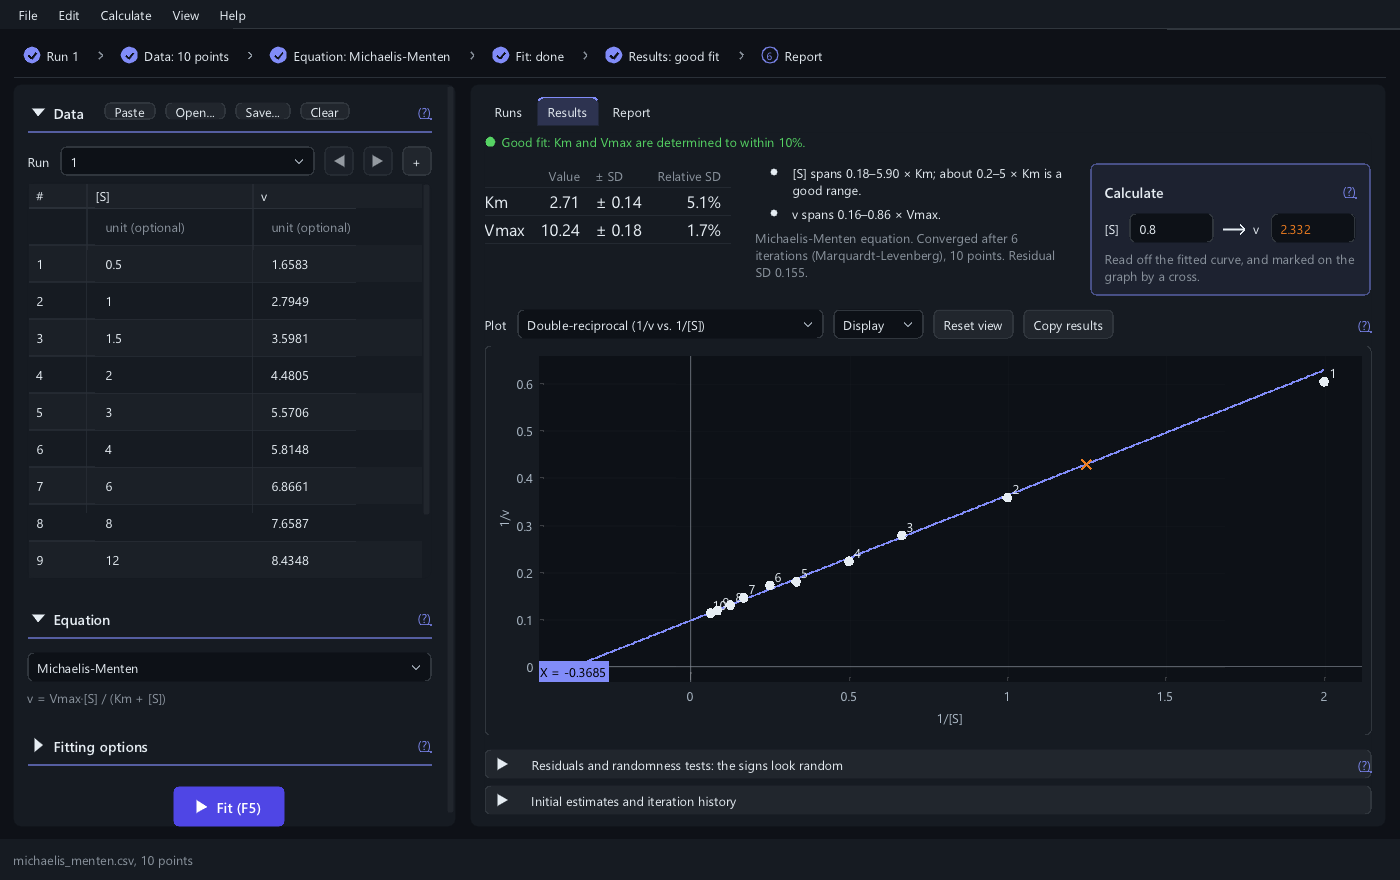
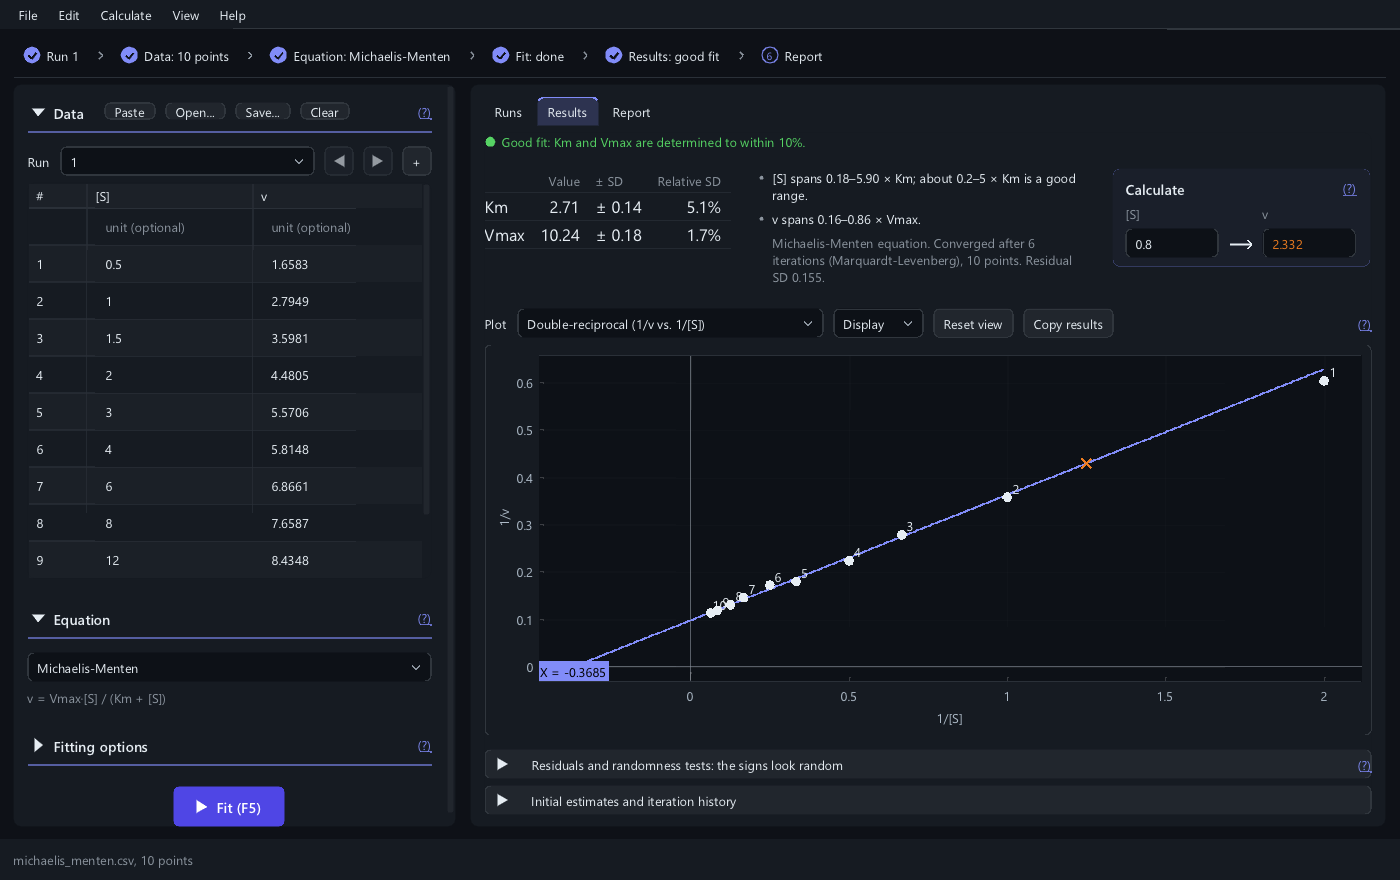
Tidy the results summary and the Calculate box
- One gap between the verdict, the table, the notes, the Calculate box
  and the plot controls.
- The notes' bullets are small and quiet, in the verdict's dot column,
  with their text (and the fit's summary line) in the verdict's text
  column.
- Calculate box: labels over two equal fields, the arrow centred between
  them; a fainter tint, a lighter border and tighter padding. The line
  under the fields appears only for a warning (extrapolated, out of the
  curve's reach, not a number).
- When the box does not fit beside the notes, it goes under them.
- README screenshots retaken.

diff --git a/source/remake/app/ui_results.cpp b/source/remake/app/ui_results.cpp
@@ -479,7 +479,7 @@ void App::draw_results_tab() {
         ImGui::EndGroup();
     } else {
         draw_results_summary(a, avail.x >= fs * 40.0f);
-        ImGui::Spacing();
+        ImGui::Dummy(ImVec2(0.0f, fs * 0.6f));  // the summary's gap between groups
         if (std::exchange(scrollToPlot_, false)) ImGui::SetScrollHereY(0.0f);
         draw_plot_controls();
         const float w = ImGui::GetContentRegionAvail().x;
@@ -495,9 +495,11 @@ void App::draw_results_tab() {
 void App::draw_results_summary(const kin::Analysis& a, bool twoColumns) {
     // The verdict first, then the numbers, then how the fit went: beside the
     // numbers when there is room, which leaves more height for the graph.
-    for (const auto& v : fit_verdict(a)) draw_verdict(v);
-    ImGui::Spacing();
+    // The groups are set apart by the same gap throughout.
     const float fs = ImGui::GetFontSize();
+    const float vgap = fs * 0.6f;
+    for (const auto& v : fit_verdict(a)) draw_verdict(v);
+    ImGui::Dummy(ImVec2(0.0f, vgap * 0.5f));
     const float gap = fs * 1.5f;
     const float boxW = prediction_box_width(a);  // the Calculate box
     if (twoColumns) {
@@ -506,44 +508,53 @@ void App::draw_results_summary(const kin::Analysis& a, bool twoColumns) {
         ImGui::EndGroup();
         ImGui::SameLine(0.0f, gap);
         // The notes, and the Calculate box beside them when there is room
-        // for both; otherwise the box goes below.
+        // for both; otherwise under them, in their column.
         const float notesW = ImGui::GetContentRegionAvail().x;
         const bool boxBeside = notesW >= fs * 14.0f + gap + boxW;
         ImGui::BeginGroup();
         ImGui::PushTextWrapPos(ImGui::GetCursorPosX() + (boxBeside ? notesW - gap - boxW : notesW));
         draw_result_notes(a);
         ImGui::PopTextWrapPos();
+        if (!boxBeside) {
+            ImGui::Dummy(ImVec2(0.0f, vgap));
+            draw_prediction_box(a, std::min(boxW, notesW));
+        }
         ImGui::EndGroup();
         if (boxBeside) {
             same_line_right(boxW);
             draw_prediction_box(a, boxW);
-        } else {
-            ImGui::Spacing();
-            draw_prediction_box(a, std::min(boxW, ImGui::GetContentRegionAvail().x));
         }
         return;
     }
     draw_parameter_values(a);
-    ImGui::Spacing();
+    ImGui::Dummy(ImVec2(0.0f, vgap));
     draw_result_notes(a);
-    ImGui::Spacing();
+    ImGui::Dummy(ImVec2(0.0f, vgap));
     draw_prediction_box(a, std::min(boxW, ImGui::GetContentRegionAvail().x));
 }
 
 void App::draw_result_notes(const kin::Analysis& a) {
-    for (const auto& line : plain_interpretation(a)) {
-        if (line.warn) ImGui::PushStyleColor(ImGuiCol_Text, palette().warning);
-        ImGui::Bullet();
-        ImGui::TextWrapped("%s", line.text.c_str());
-        if (line.warn) ImGui::PopStyleColor();
-    }
+    // Each note with a small, quiet bullet in the verdict's dot column, and
+    // its text in the verdict's text column.
+    const float fs = ImGui::GetFontSize();
+    bool bullets = false;
+    auto note = [&](const std::string& text, bool warn) {
+        bullets = true;
+        const ImVec2 p = ImGui::GetCursorScreenPos();
+        ImGui::GetWindowDrawList()->AddCircleFilled(ImVec2(p.x + fs * 0.35f, p.y + ImGui::GetTextLineHeight() * 0.55f),
+                                                    fs * 0.12f, ImGui::GetColorU32(palette().textDim));
+        ImGui::Indent(fs);
+        ImGui::PushStyleColor(ImGuiCol_Text, warn ? palette().warning : palette().text);
+        ImGui::TextWrapped("%s", text.c_str());
+        ImGui::PopStyleColor();
+        ImGui::Unindent(fs);
+    };
+    for (const auto& line : plain_interpretation(a)) note(line.text, line.warn);
     // The notes the verdict above does not already cover (e.g. how a fixed
     // v0 was set); the report lists them all.
-    for (const auto& note : a.notes) {
-        if (note == a.fit.message || note.rfind("Only ", 0) == 0 || note.rfind("Some standard deviations", 0) == 0)
-            continue;
-        ImGui::Bullet();
-        ImGui::TextWrapped("%s", note.c_str());
+    for (const auto& n : a.notes) {
+        if (n == a.fit.message || n.rfind("Only ", 0) == 0 || n.rfind("Some standard deviations", 0) == 0) continue;
+        note(n, false);
     }
     {
         const std::string sd = kin::fmt_g(a.fit.stdDev, 3);
@@ -561,9 +572,13 @@ void App::draw_result_notes(const kin::Analysis& a) {
             std::snprintf(buf, sizeof buf, "%s. %s %d iteration%s (%s), %d points. Residual SD %s%s.", label.c_str(),
                           a.fit.status == kin::FitStatus::Converged ? "Converged after" : "Stopped after", it,
                           it == 1 ? "" : "s", method, a.fit.n, sd.c_str(), unit.c_str());
+        // In the notes' text column, or at the left when there are none.
+        const float indent = bullets ? fs : 0.0f;
+        if (bullets) ImGui::Indent(indent);
         ImGui::PushStyleColor(ImGuiCol_Text, palette().textDim);
         ImGui::TextWrapped("%s", buf);
         ImGui::PopStyleColor();
+        if (bullets) ImGui::Unindent(indent);
         const int df = a.linear ? a.linear->df : a.fit.dof;
         item_tooltip("The residual SD is the typical distance of a point from the fitted curve (" +
                      kin::fmt_g(a.fit.stdDev) + "). " + std::to_string(a.fit.nFree) + " free parameter" +
@@ -790,61 +805,65 @@ std::optional<std::pair<double, double>> App::calculated_point(const kin::Analys
     return std::pair{*x, v};
 }
 
-// The Calculate box's one row, "[S] [  ]  ->  v [  ]": its labels and sizes,
-// for both the box's width and its drawing.
-struct CalcRow {
+// The Calculate box's layout: two equal columns, each a label over a field,
+// with the arrow between them.
+struct CalcLayout {
     std::string xLabel, yLabel;
-    float labels = 0.0f;  // both labels, with the space after each
-    float arrow = 0.0f;   // the arrow between the fields, with its margins
-    float field = 0.0f;   // each field, at its full width
-    float width() const { return labels + arrow + 2.0f * field; }
+    float column = 0.0f;  // each column, at its full width
+    float arrow = 0.0f;   // the arrow between the columns, with its margins
+    float width() const { return 2.0f * column + arrow; }
 };
 
-static CalcRow calc_row(const kin::Analysis& a, const std::string& xUnit, const std::string& yUnit) {
+static CalcLayout calc_layout(const kin::Analysis& a, const std::string& xUnit, const std::string& yUnit) {
     const auto& def = kin::model_def(a.model());
     const bool arrhenius = def.family == kin::Family::Arrhenius;
     auto label = [&](std::string_view name, const std::string& unit) {
         return std::string(name) + (unit.empty() || arrhenius ? std::string() : " (" + unit + ")");
     };
-    const float fs = ImGui::GetFontSize(), sp = ImGui::GetStyle().ItemSpacing.x;
-    CalcRow r;
-    r.xLabel = label(def.xName, xUnit);
-    r.yLabel = label(def.yName, yUnit);
-    r.labels = ImGui::CalcTextSize(r.xLabel.c_str()).x + ImGui::CalcTextSize(r.yLabel.c_str()).x + 2.0f * sp;
-    r.arrow = fs * 2.4f;
-    r.field = fs * 5.0f;
-    return r;
+    const float fs = ImGui::GetFontSize();
+    CalcLayout l;
+    l.xLabel = label(def.xName, xUnit);
+    l.yLabel = label(def.yName, yUnit);
+    l.column = std::max({fs * 5.5f, ImGui::CalcTextSize(l.xLabel.c_str()).x, ImGui::CalcTextSize(l.yLabel.c_str()).x});
+    l.arrow = fs * 2.6f;
+    return l;
+}
+
+// The box's padding, a little tighter than a window's.
+static ImVec2 calc_padding() {
+    const float fs = ImGui::GetFontSize();
+    return ImVec2(fs * 0.8f, fs * 0.6f);
 }
 
 float App::prediction_box_width(const kin::Analysis& a) const {
     const float fs = ImGui::GetFontSize();
-    return std::max(calc_row(a, xUnit_, yUnit_).width(), fs * 12.0f) + 2.0f * ImGui::GetStyle().WindowPadding.x;
+    return std::max(calc_layout(a, xUnit_, yUnit_).width(), fs * 11.0f) + 2.0f * calc_padding().x;
 }
 
 void App::draw_prediction_box(const kin::Analysis& a, float width) {
     const auto& def = kin::model_def(a.model());
     const std::string xName(def.xName), yName(def.yName);
     const float fs = ImGui::GetFontSize();
-    const CalcRow row = calc_row(a, xUnit_, yUnit_);
+    const CalcLayout layout = calc_layout(a, xUnit_, yUnit_);
     const auto pt = calculated_point(a);
     double typedValue = 0.0;
     const CellState state = parse_cell(calcInput_, typedValue);
 
-    // A lightly tinted, rounded box, so that it reads as a tool of its own.
+    // A quiet box: a faint tint of the accent and a light border.
     const ImVec4 tint = palette().accent;
-    ImGui::PushStyleColor(ImGuiCol_ChildBg, ImVec4(tint.x, tint.y, tint.z, 0.07f));
-    ImGui::PushStyleColor(ImGuiCol_Border, ImVec4(tint.x, tint.y, tint.z, 0.45f));
-    ImGui::PushStyleVar(ImGuiStyleVar_ChildRounding, fs * 0.35f);
+    ImGui::PushStyleColor(ImGuiCol_ChildBg, ImVec4(tint.x, tint.y, tint.z, 0.045f));
+    ImGui::PushStyleColor(ImGuiCol_Border, ImVec4(tint.x, tint.y, tint.z, 0.28f));
+    ImGui::PushStyleVar(ImGuiStyleVar_ChildRounding, fs * 0.4f);
     ImGui::PushStyleVar(ImGuiStyleVar_ChildBorderSize, 1.0f);
+    ImGui::PushStyleVar(ImGuiStyleVar_WindowPadding, calc_padding());
     const bool visible = ImGui::BeginChild("##predict", ImVec2(width, 0.0f),
                                            ImGuiChildFlags_Borders | ImGuiChildFlags_AutoResizeY |
                                                ImGuiChildFlags_AlwaysUseWindowPadding,
                                            ImGuiWindowFlags_NoScrollbar);
-    ImGui::PopStyleVar(2);
+    ImGui::PopStyleVar(3);
     ImGui::PopStyleColor(2);
     if (visible) {
         push_heading_font();
-        ImGui::AlignTextToFramePadding();
         ImGui::TextUnformatted("Calculate");
         ImGui::PopFont();
         help_link(HelpId::StandardCurve);
@@ -853,10 +872,18 @@ void App::draw_prediction_box(const kin::Analysis& a, float width) {
         // other shows the value read off the fitted curve, in the colour of
         // the cross that marks the point on the graph. The arrow points from
         // the value typed to the one calculated.
-        const float field = std::clamp((ImGui::GetContentRegionAvail().x - row.labels - row.arrow) / 2.0f, fs * 3.0f,
-                                       row.field);
+        const float column = std::max(fs * 3.0f, (ImGui::GetContentRegionAvail().x - layout.arrow) / 2.0f);
+        const float x0 = ImGui::GetCursorPosX();
+        const float x1 = x0 + column + layout.arrow;  // the second column
+
+        // The labels, quiet like the table's headings.
+        ImGui::PushStyleColor(ImGuiCol_Text, palette().textDim);
+        ImGui::TextUnformatted(layout.xLabel.c_str());
+        ImGui::SameLine(x1);
+        ImGui::TextUnformatted(layout.yLabel.c_str());
+        ImGui::PopStyleColor();
+
         auto draw_field = [&](bool isX) {
-            const std::string& label = isX ? row.xLabel : row.yLabel;
             const std::string& name = isX ? xName : yName;
             const std::string& other = isX ? yName : xName;
             const bool typed = !calcInput_.empty() && calcInputIsX_ == isX;
@@ -864,18 +891,17 @@ void App::draw_prediction_box(const kin::Analysis& a, float width) {
             const double value = answer ? (isX ? pt->first : pt->second) : NAN;
             std::string text = typed ? calcInput_ : answer ? kin::fmt_g(value, 4) : std::string();
             ImGui::PushID(isX ? "x" : "y");
-            ImGui::AlignTextToFramePadding();
-            ImGui::TextUnformatted(label.c_str());
-            ImGui::SameLine();
             if (std::exchange(isX ? focusCalcX_ : focusCalcY_, false)) ImGui::SetKeyboardFocusHere();
-            ImGui::SetNextItemWidth(field);
+            ImGui::SetNextItemWidth(column);
             if (answer) ImGui::PushStyleColor(ImGuiCol_Text, prediction_colour());
             if (ImGui::InputText("##value", &text, ImGuiInputTextFlags_CharsScientific)) {
                 calcInput_ = text;
                 calcInputIsX_ = isX;
             }
             if (answer) ImGui::PopStyleColor();
-            item_tooltip((answer ? name + " = " + kin::fmt_g(value, 10) + ", read off the fitted curve. " : std::string()) +
+            item_tooltip((answer ? name + " = " + kin::fmt_g(value, 10) + ", read off the fitted curve and marked on "
+                                                                         "the graph by a cross. "
+                                 : std::string()) +
                          "Type " + name + " here to read " + other + " off the curve (" + (isX ? "Alt+Y" : "Alt+X") +
                          "). The data's " + name + " runs from " + kin::fmt_g(isX ? a.xMin : a.yMin) + " to " +
                          kin::fmt_g(isX ? a.xMax : a.yMax) + ".");
@@ -889,20 +915,22 @@ void App::draw_prediction_box(const kin::Analysis& a, float width) {
             const ImVec2 p = ImGui::GetCursorScreenPos();
             const float h = ImGui::GetFrameHeight();
             const float cy = std::round(p.y + h * 0.5f) + 0.5f;
-            const float x0 = p.x + fs * 0.55f, x1 = p.x + row.arrow - fs * 0.55f, head = fs * 0.3f;
+            const float half = fs * 0.65f, head = fs * 0.28f;
+            const float mid = p.x + layout.arrow * 0.5f;
+            const float a0 = mid - half, a1 = mid + half;
             const ImU32 ink = ImGui::GetColorU32(dir == 0 ? palette().textDim : palette().text);
-            const float thick = std::max(1.0f, fs * 0.09f);
+            const float thick = std::max(1.0f, fs * 0.08f);
             ImDrawList* dl = ImGui::GetWindowDrawList();
-            dl->AddLine(ImVec2(x0, cy), ImVec2(x1, cy), ink, thick);
+            dl->AddLine(ImVec2(a0, cy), ImVec2(a1, cy), ink, thick);
             if (dir >= 0) {
-                dl->AddLine(ImVec2(x1 - head, cy - head), ImVec2(x1, cy), ink, thick);
-                dl->AddLine(ImVec2(x1 - head, cy + head), ImVec2(x1, cy), ink, thick);
+                dl->AddLine(ImVec2(a1 - head, cy - head), ImVec2(a1, cy), ink, thick);
+                dl->AddLine(ImVec2(a1 - head, cy + head), ImVec2(a1, cy), ink, thick);
             }
             if (dir <= 0) {
-                dl->AddLine(ImVec2(x0 + head, cy - head), ImVec2(x0, cy), ink, thick);
-                dl->AddLine(ImVec2(x0 + head, cy + head), ImVec2(x0, cy), ink, thick);
+                dl->AddLine(ImVec2(a0 + head, cy - head), ImVec2(a0, cy), ink, thick);
+                dl->AddLine(ImVec2(a0 + head, cy + head), ImVec2(a0, cy), ink, thick);
             }
-            ImGui::Dummy(ImVec2(row.arrow, h));
+            ImGui::Dummy(ImVec2(layout.arrow, h));
         };
 
         draw_field(true);
@@ -911,29 +939,25 @@ void App::draw_prediction_box(const kin::Analysis& a, float width) {
         ImGui::SameLine(0.0f, 0.0f);
         draw_field(false);
 
-        // One line under the fields, always there so that the box keeps its
-        // height: what to do, what went wrong, or what the answer is.
+        // A line under the fields only when something needs saying: the
+        // value is out of the data's range, or cannot be read off.
         const std::string& typedName = calcInputIsX_ ? xName : yName;
         const double lo = calcInputIsX_ ? a.xMin : a.yMin, hi = calcInputIsX_ ? a.xMax : a.yMax;
         std::string note;
-        ImVec4 col = palette().textDim;
-        if (state == CellState::Blank) {
-            note = "Type in either field to read the other off the fitted curve.";
-        } else if (state == CellState::Invalid) {
+        ImVec4 col = palette().bad;
+        if (state == CellState::Invalid) {
             note = "Not a number.";
-            col = palette().bad;
-        } else if (!pt) {
+        } else if (state == CellState::Number && !pt) {
             note = "The fitted curve does not reach " + typedName + " = " + calcInput_ + ".";
-            col = palette().bad;
-        } else if (typedValue < lo || typedValue > hi) {
+        } else if (state == CellState::Number && (typedValue < lo || typedValue > hi)) {
             note = "Extrapolated: the data's " + typedName + " runs from " + kin::fmt_g(lo) + " to " + kin::fmt_g(hi) + ".";
             col = palette().warning;
-        } else {
-            note = "Read off the fitted curve, and marked on the graph by a cross.";
         }
-        ImGui::PushStyleColor(ImGuiCol_Text, col);
-        ImGui::TextWrapped("%s", note.c_str());
-        ImGui::PopStyleColor();
+        if (!note.empty()) {
+            ImGui::PushStyleColor(ImGuiCol_Text, col);
+            ImGui::TextWrapped("%s", note.c_str());
+            ImGui::PopStyleColor();
+        }
     }
     ImGui::EndChild();
 }
